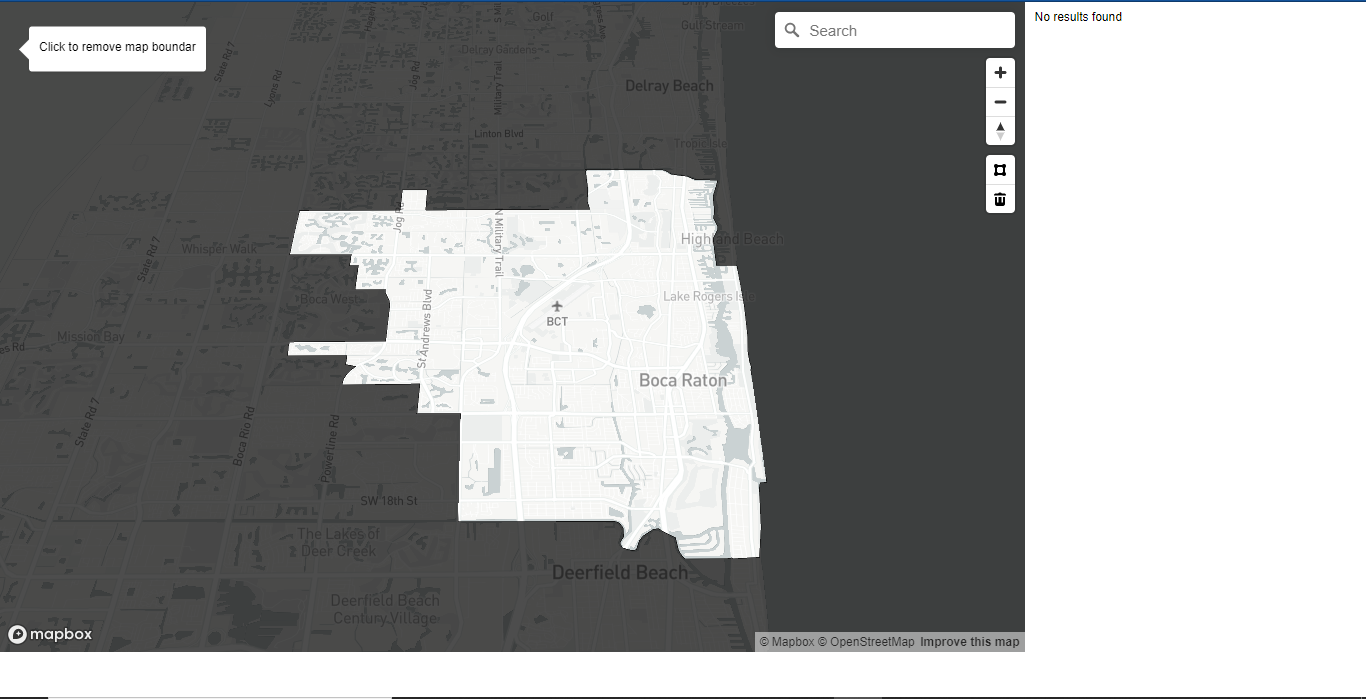
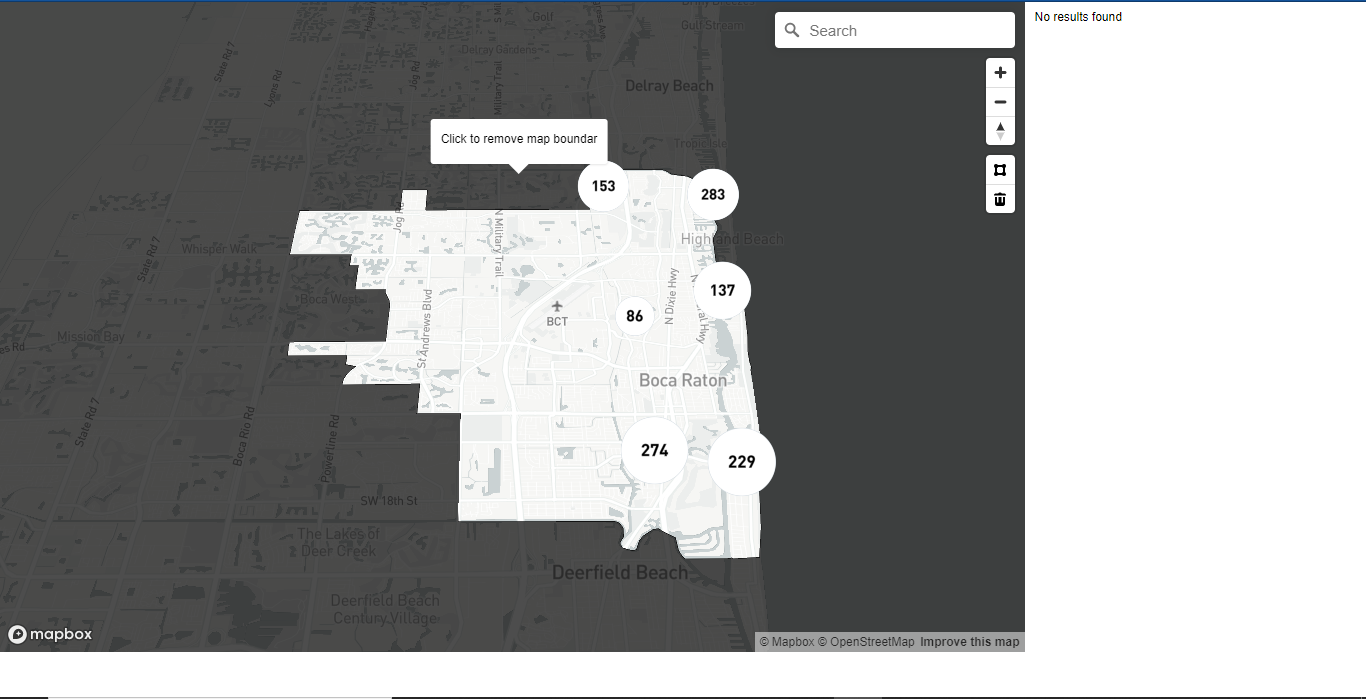
filter using draw features

diff --git a/index.html b/index.html
@@ -18,7 +18,7 @@
 			padding: 2px 6px;
 			border-radius: 4px;
 			transition-property: opacity,color,background-color,border-color;
-    		transition-duration: .25s;
+    		transition-duration: .45s;
 			box-shadow: 1px 1px 0.3em #ddd;
 			cursor: pointer;
 		}
@@ -80,12 +80,13 @@
 		}
 		#map {
 			position: absolute;
-			right: 25%;
+			right: 0%;
 			top: 0;
 			bottom: 0;
-			width: 75%;
+			width: 100%;
 		}
 		.map-overlay {
+			display: none;
 			position: absolute;
 			width: 25%;
 			top: 0;
@@ -155,7 +156,7 @@
 	</div>
 	
 <script>
-var geo, ajaxReq = 'ToCancelPrevReq', featureArr = new Array(), isFilterWithBoundary = true;
+var geo, drawFeatures = [], ajaxReq = 'ToCancelPrevReq', featureArr = new Array(), isFilterWithBoundary = true;
 var listingClusters;
 
 function abbrState(state) {
@@ -236,8 +237,7 @@ var map = new mapboxgl.Map({
 	zoom: 14,
 	//maxBounds: bounds,
 	bearing: 0,
-	pitch: 45,
-	hash:true
+	pitch: 45
 });
 
 var airports = [];
@@ -250,16 +250,18 @@ var geocoder = new MapboxGeocoder({
 });
 
 map.addControl(geocoder);
+
+// Navigation control
 map.addControl(new mapboxgl.NavigationControl());
 
+// draw control
 var draw = new MapboxDraw({
 	displayControlsDefault: false,
 	controls: {
-	polygon: true,
-	trash: true
+		polygon: true,
+		trash: true
 	},
 });
-map.addControl(draw);
 
 // Create a popup, but don't add it to the map yet.
 var popup = new mapboxgl.Popup({
@@ -379,6 +381,59 @@ map.on('load', function() {
 		}
 	});
 
+	map.on('draw.create', function(e) {
+		console.log(e.features);
+		drawFeatures.push(...e.features);
+
+		draw.trash();
+
+		// call update filter function
+		updateBoundaryFilter();
+	});
+
+	map.on('draw.delete', function(e) {
+		// check if there are more features
+		console.log(e);
+		drawFeatures = drawFeatures.filter(feature => {
+			let ft = e.features.find(fts => fts.id == feature.id);
+			if(ft) {
+				return;
+			}
+
+			return feature;
+		});
+
+		console.log(drawFeatures);
+
+		// reset the map boundary
+		if(drawFeatures.length == 0){
+			clearBoundaryFilter();
+		} else {
+			// update the filter
+			updateBoundaryFilter();
+		}
+	
+	});
+
+	map.on('draw.update', function(e){
+		console.log(e.features);
+
+		drawFeatures = drawFeatures.map(feature => {
+			let ft = e.features.find(fts => fts.id == feature.id);
+			if(ft) {
+				return ft;
+			}
+
+			return feature;
+		});
+
+		// update 
+		updateBoundaryFilter();
+	});
+
+	// style
+	// Mapbox base layers: satellite layer
+
 	// boundary data
 	map.addSource('boundary', {
 		'type': 'geojson',
@@ -487,25 +542,7 @@ map.on('load', function() {
     });
 
 	map.on('click', 'boundary', function(e) {
-		let geojson = {
-			'type':'FeatureCollection',
-			'features':featureArr
-		};
-
-		console.log("Clicked Boundary");
-
-		map.getSource('locations').setData(listingClusters);
-		querySourceFeatures(featureArr);
-
-		map.getSource('boundary').setData(
-			{
-			'type':'FeatureCollection',
-			'features':[]
-			}
-		);
-
-		isFilterWithBoundary = false;
-
+		clearBoundaryFilter();
 	});
 
 	// load the boundary data
@@ -666,6 +703,8 @@ map.on('load', function() {
 	// Call this function on initialization
 	// passing an empty array to render an empty state
 	renderListings([]);
+
+	map.addControl(draw);
 });
 
 // update source locations with new data
@@ -686,7 +725,8 @@ function updateLocationSource(data) {
 
 		return feature;
 	});
-	let listingClusters = {
+	
+	listingClusters = {
 		'type':'FeatureCollection',
 		'features':clusters
 	};
@@ -737,6 +777,60 @@ function updateLocationSource(data) {
 	}
 
 	
+}
+
+// update boundary filter
+function updateBoundaryFilter() {
+	// update mask layer
+	let boundz = [-180, 90, 180, -90];
+	geo.coordinates = drawFeatures.map(feature => feature.geometry.coordinates);
+	var mask = turf.multiPolygon(geo.coordinates);
+
+	map.getSource('boundary').setData(polyMask(mask, boundz));
+	isFilterWithBoundary = true;
+
+	// filter data within mask bounds
+	let listingWithin = turf.pointsWithinPolygon(
+		listingClusters, 
+		turf.multiPolygon(geo.coordinates)
+	);
+
+	console.log(listingWithin);
+
+	map.getSource('locations').setData(listingWithin);
+
+	// filter pins within view
+	let pinsWithinView = turf.pointsWithinPolygon(
+			turf.featureCollection(featureArr), 
+			turf.multiPolygon(geo.coordinates)
+	);
+
+	console.log(pinsWithinView);
+	// update the pins
+	querySourceFeatures(pinsWithinView.features);
+}
+
+// clear boundary
+function clearBoundaryFilter() {
+	let geojson = {
+		'type':'FeatureCollection',
+		'features':featureArr
+	};
+
+	console.log("Clicked Boundary");
+
+	map.getSource('locations').setData(listingClusters);
+	querySourceFeatures(featureArr);
+
+	map.getSource('boundary').setData(
+		{
+		'type':'FeatureCollection',
+		'features':[]
+		}
+	);
+
+	drawFeatures = [];
+	isFilterWithBoundary = false;
 }
 
 // query source features
